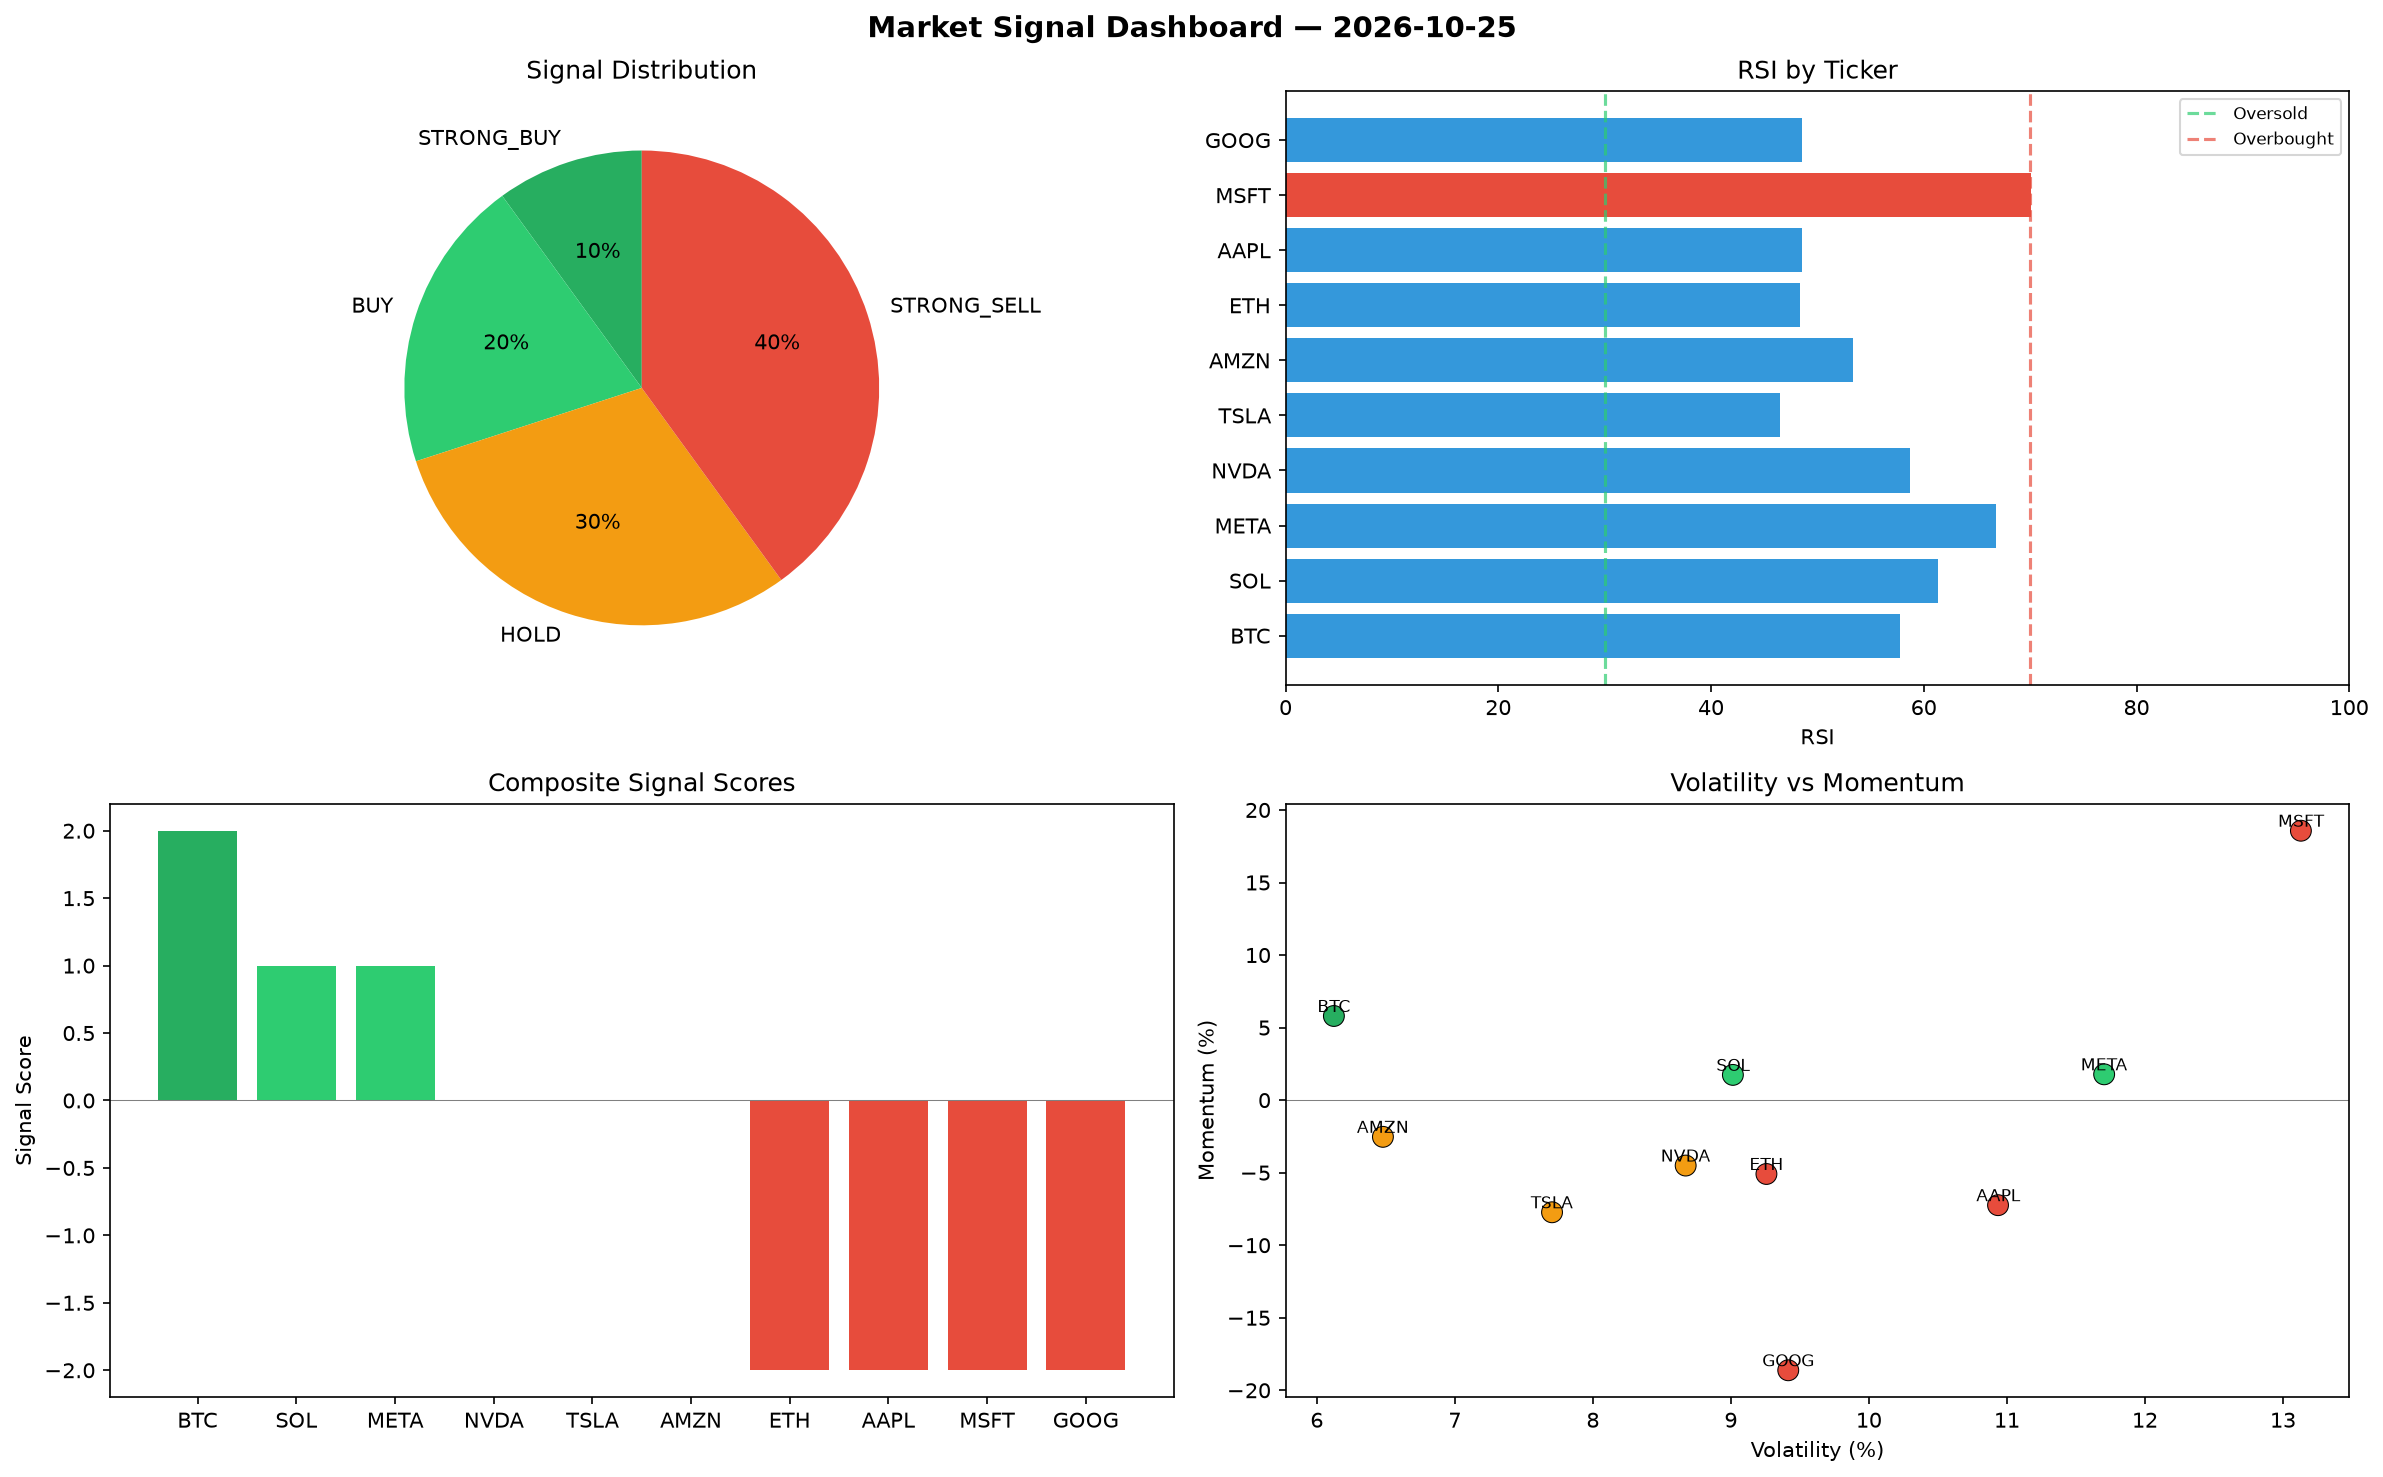
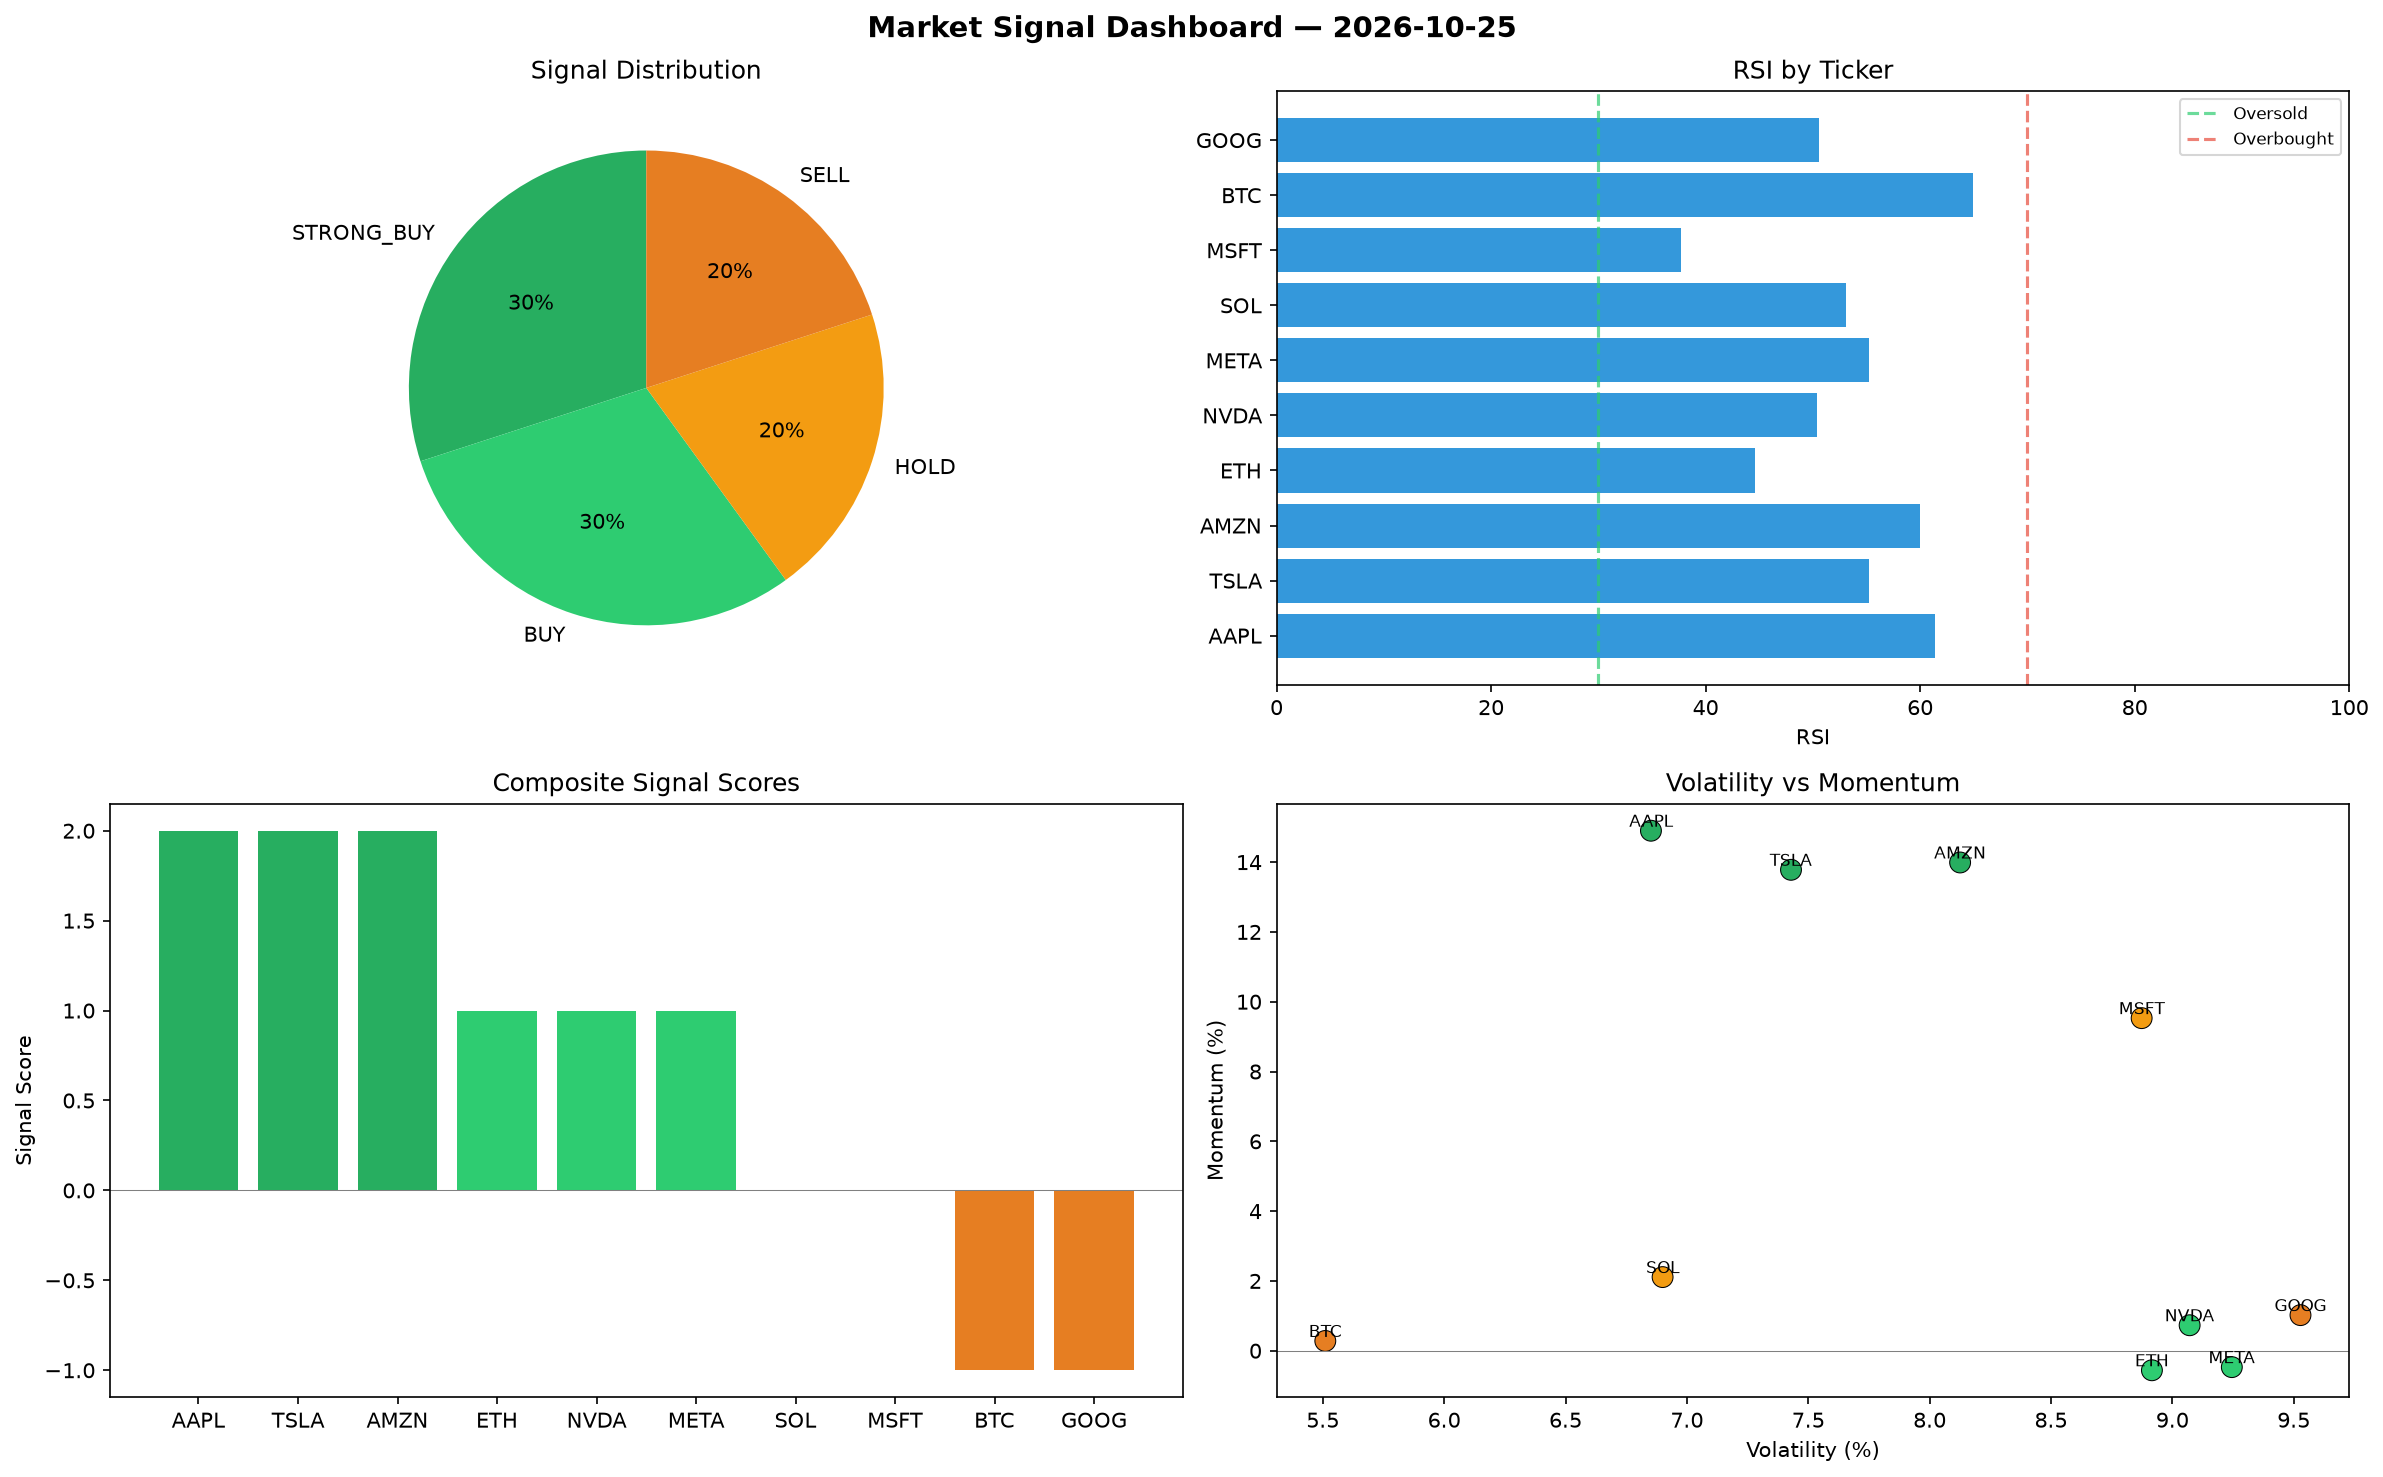
automated-bots: market signals 2026-10-25T13:16

diff --git a/logs/2026-10-25.md b/logs/2026-10-25.md
@@ -1,6 +1,6 @@
 # Market Signal Report — 2026-10-25
 
-**Run ID:** `362e33db00` | **Buy:** 3 | **Sell:** 4 | **Hold:** 3
+**Run ID:** `147eb85c76` | **Buy:** 6 | **Sell:** 2 | **Hold:** 2
 
 ![Dashboard](2026-10-25_dashboard.png)
 
@@ -8,28 +8,28 @@
 
 | Ticker | Price | Signal | Score | RSI | Momentum | Confidence |
 |--------|-------|--------|-------|-----|----------|------------|
-| BTC | $4992.02 | **STRONG_BUY** | 2 | 57.72 | 0.058 | 0.5 |
-| SOL | $462.37 | **BUY** | 1 | 61.34 | 0.0174 | 0.25 |
-| META | $2705.99 | **BUY** | 1 | 66.77 | 0.0178 | 0.25 |
-| NVDA | $1582.26 | **HOLD** | 0 | 58.74 | -0.0451 | 0.0 |
-| TSLA | $2061.31 | **HOLD** | 0 | 46.46 | -0.0773 | 0.0 |
-| AMZN | $172.93 | **HOLD** | 0 | 53.33 | -0.0253 | 0.0 |
-| ETH | $3307.43 | **STRONG_SELL** | -2 | 48.4 | -0.0509 | 0.5 |
-| AAPL | $1180.9 | **STRONG_SELL** | -2 | 48.51 | -0.0724 | 0.5 |
-| MSFT | $334.73 | **STRONG_SELL** | -2 | 70.04 | 0.1857 | 0.5 |
-| GOOG | $2751.06 | **STRONG_SELL** | -2 | 48.58 | -0.1862 | 0.5 |
+| AAPL | $5082.82 | **STRONG_BUY** | 2 | 61.36 | 0.149 | 0.5 |
+| TSLA | $1765.61 | **STRONG_BUY** | 2 | 55.23 | 0.1378 | 0.5 |
+| AMZN | $1407.98 | **STRONG_BUY** | 2 | 60.02 | 0.1399 | 0.5 |
+| ETH | $4323.57 | **BUY** | 1 | 44.64 | -0.0056 | 0.25 |
+| NVDA | $1344.24 | **BUY** | 1 | 50.4 | 0.0073 | 0.25 |
+| META | $3027.35 | **BUY** | 1 | 55.2 | -0.0047 | 0.25 |
+| SOL | $110.81 | **HOLD** | 0 | 53.1 | 0.0211 | 0.0 |
+| MSFT | $2279.58 | **HOLD** | 0 | 37.75 | 0.0953 | 0.0 |
+| BTC | $3760.29 | **SELL** | -1 | 64.9 | 0.0028 | 0.25 |
+| GOOG | $167.96 | **SELL** | -1 | 50.58 | 0.0102 | 0.25 |
 
 ## Delta vs Yesterday
 
 | Ticker | Today | Yesterday | Price Change | Signal Changed |
 |--------|-------|-----------|-------------|----------------|
-| BTC | STRONG_BUY | STRONG_SELL | 📈 307.83% | ⚠ YES |
-| SOL | BUY | STRONG_SELL | 📉 -84.82% | ⚠ YES |
-| META | BUY | HOLD | 📈 10.88% | ⚠ YES |
-| NVDA | HOLD | SELL | 📈 103.4% | ⚠ YES |
-| TSLA | HOLD | STRONG_SELL | 📈 15.8% | ⚠ YES |
-| AMZN | HOLD | HOLD | 📉 -96.03% | — |
-| ETH | STRONG_SELL | HOLD | 📈 118.47% | ⚠ YES |
-| AAPL | STRONG_SELL | STRONG_SELL | 📉 -50.07% | — |
-| MSFT | STRONG_SELL | HOLD | 📉 -70.04% | ⚠ YES |
-| GOOG | STRONG_SELL | HOLD | 📈 89.42% | ⚠ YES |
+| AAPL | STRONG_BUY | STRONG_SELL | 📈 114.91% | ⚠ YES |
+| TSLA | STRONG_BUY | STRONG_SELL | 📉 -0.81% | ⚠ YES |
+| AMZN | STRONG_BUY | HOLD | 📉 -67.65% | ⚠ YES |
+| ETH | BUY | HOLD | 📈 185.59% | ⚠ YES |
+| NVDA | BUY | SELL | 📈 72.8% | ⚠ YES |
+| META | BUY | HOLD | 📈 24.05% | ⚠ YES |
+| SOL | HOLD | STRONG_SELL | 📉 -96.36% | ⚠ YES |
+| MSFT | HOLD | HOLD | 📈 104.07% | — |
+| BTC | SELL | STRONG_SELL | 📈 207.2% | ⚠ YES |
+| GOOG | SELL | HOLD | 📉 -88.44% | ⚠ YES |
